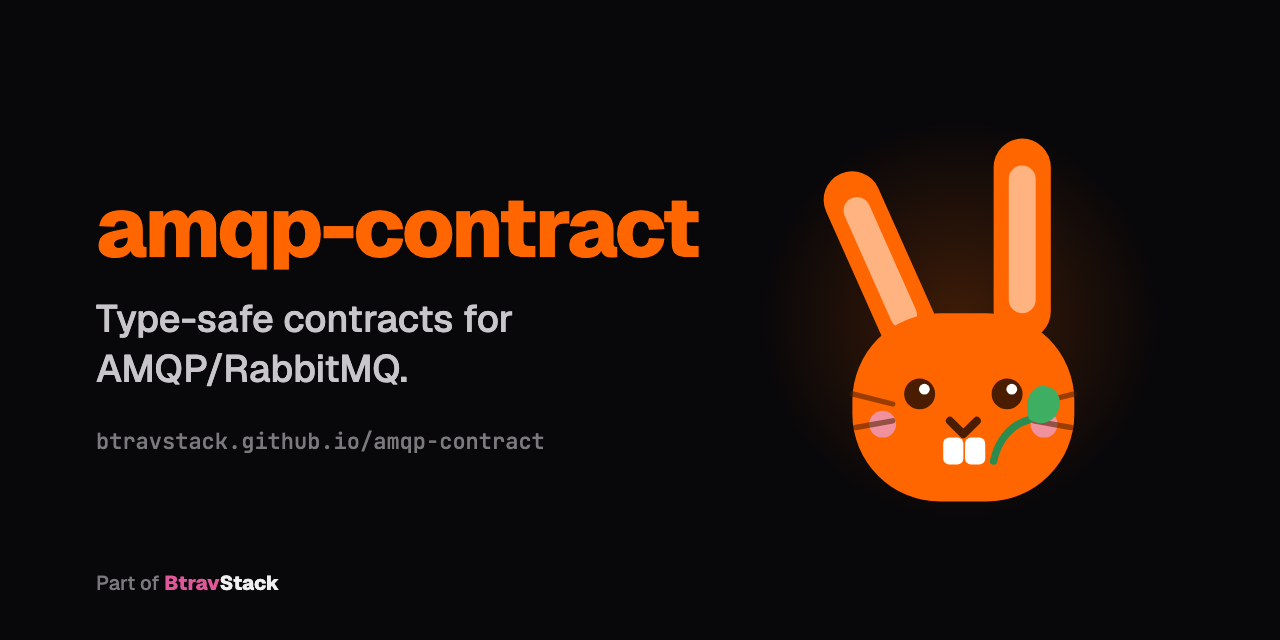
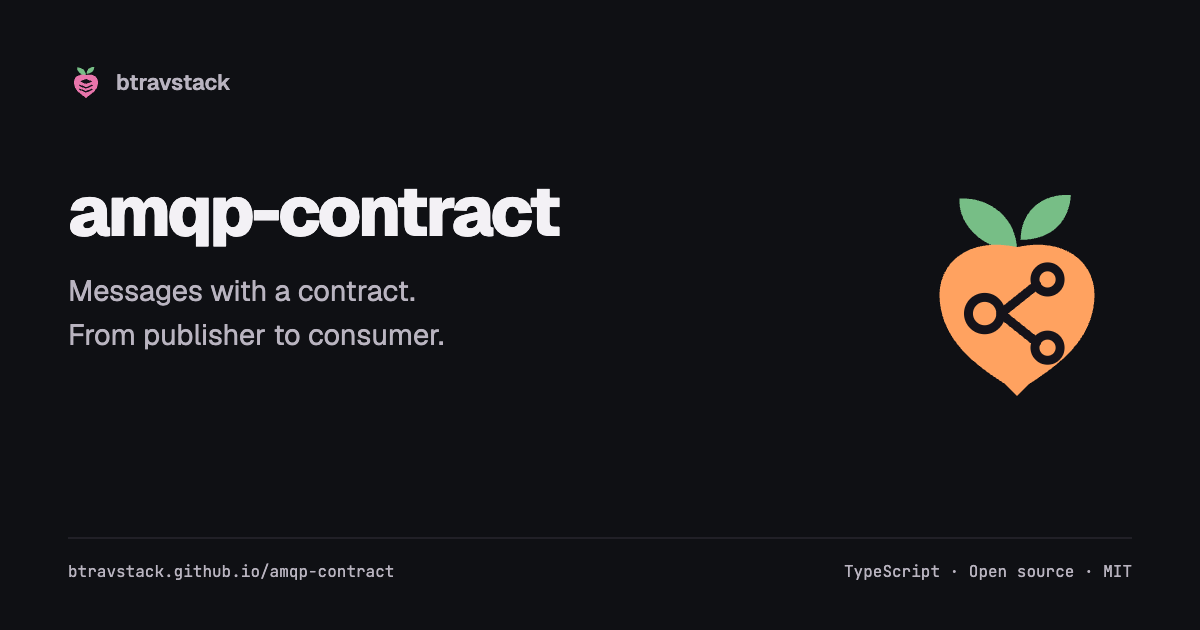
docs: refresh project branding

diff --git a/docs/.vitepress/theme/custom.css b/docs/.vitepress/theme/custom.css
@@ -12,10 +12,7 @@
   --vp-home-hero-name-color: var(--text-accent);
 }
 
-/* Home-hero background glyph — the project's motif behind the hero (a message
- * fanning out to bound queues). Painted in --accent through a mask, so it
- * always tracks the accent token; the SVG is base64-encoded so no CSS
- * minifier can mangle it. */
+/* Use the project silhouette as the decorative hero backdrop. */
 .VPHome {
   position: relative;
   isolation: isolate;
@@ -32,10 +29,8 @@
   right: var(--btv-gutter);
   aspect-ratio: 500 / 300;
   background-color: var(--accent);
[1 lines of base64/hex data omitted]
-    no-repeat top center / contain;
[1 lines of base64/hex data omitted]
-    no-repeat top center / contain;
+  -webkit-mask: url("/logo-mono.svg") no-repeat top center / contain;
+  mask: url("/logo-mono.svg") no-repeat top center / contain;
   opacity: 0.14;
   pointer-events: none;
   z-index: -1;

diff --git a/docs/.vitepress/config.ts b/docs/.vitepress/config.ts
@@ -304,7 +304,7 @@ export default withMermaid(
     },
 
     head: [
-      ["link", { rel: "icon", type: "image/svg+xml", href: `${BASE}logo.svg` }],
+      ["link", { rel: "icon", type: "image/svg+xml", href: `${BASE}favicon.svg` }],
       // SEO keywords meta tags
       [
         "meta",

diff --git a/docs/branding/README.md b/docs/branding/README.md
@@ -1,0 +1,18 @@
+# amqp-contract branding
+
+These assets belong to the btravstack family of project marks. The canonical
+source is [the website brand generator](https://github.com/btravstack/btravstack.github.io/blob/main/scripts/generate-brand.mjs).
+
+To refresh them, run the generator in that repository and copy the generated
+`apps/website/public/logos/amqp-contract-{light,dark,mono,favicon}.svg`
+files into `docs/public/` as `logo-light.svg`, `logo-dark.svg`, `logo-mono.svg`
+and `favicon.svg`. Keep `logo.svg` identical to `logo-light.svg` as the fallback.
+The matching social card is `docs/public/og-amqp-contract.png` (1200 × 630),
+rendered from the [editable social-card template](https://github.com/btravstack/btravstack.github.io/blob/main/branding/social-card.html)
+with `?project=amqp-contract`.
+
+The README, documentation navigation and hero select a mark for the reader's
+color scheme. A dedicated compact mark serves as the favicon. All assets are
+committed locally so documentation builds and deployed pages remain independent
+of the website repository. The docs configuration applies the current deployment
+base to favicon and social-card URLs, including prerelease deployments.

diff --git a/README.md b/README.md
@@ -1,6 +1,10 @@
 <div align="center">
 
-<img src="docs/public/logo.svg" alt="amqp-contract" width="128" height="128" />
+<picture>
+  <source media="(prefers-color-scheme: dark)" srcset="docs/public/logo-dark.svg" />
+  <source media="(prefers-color-scheme: light)" srcset="docs/public/logo-light.svg" />
+  <img src="docs/public/logo.svg" alt="amqp-contract logo" width="128" height="128" />
+</picture>
 
 # amqp-contract
 

diff --git a/docs/index.md b/docs/index.md
@@ -10,7 +10,7 @@ hero:
   image:
     light: /logo-light.svg
     dark: /logo-dark.svg
-    alt: amqp-contract
+    alt: amqp-contract logo
   actions:
     - theme: brand
       text: Get Started
